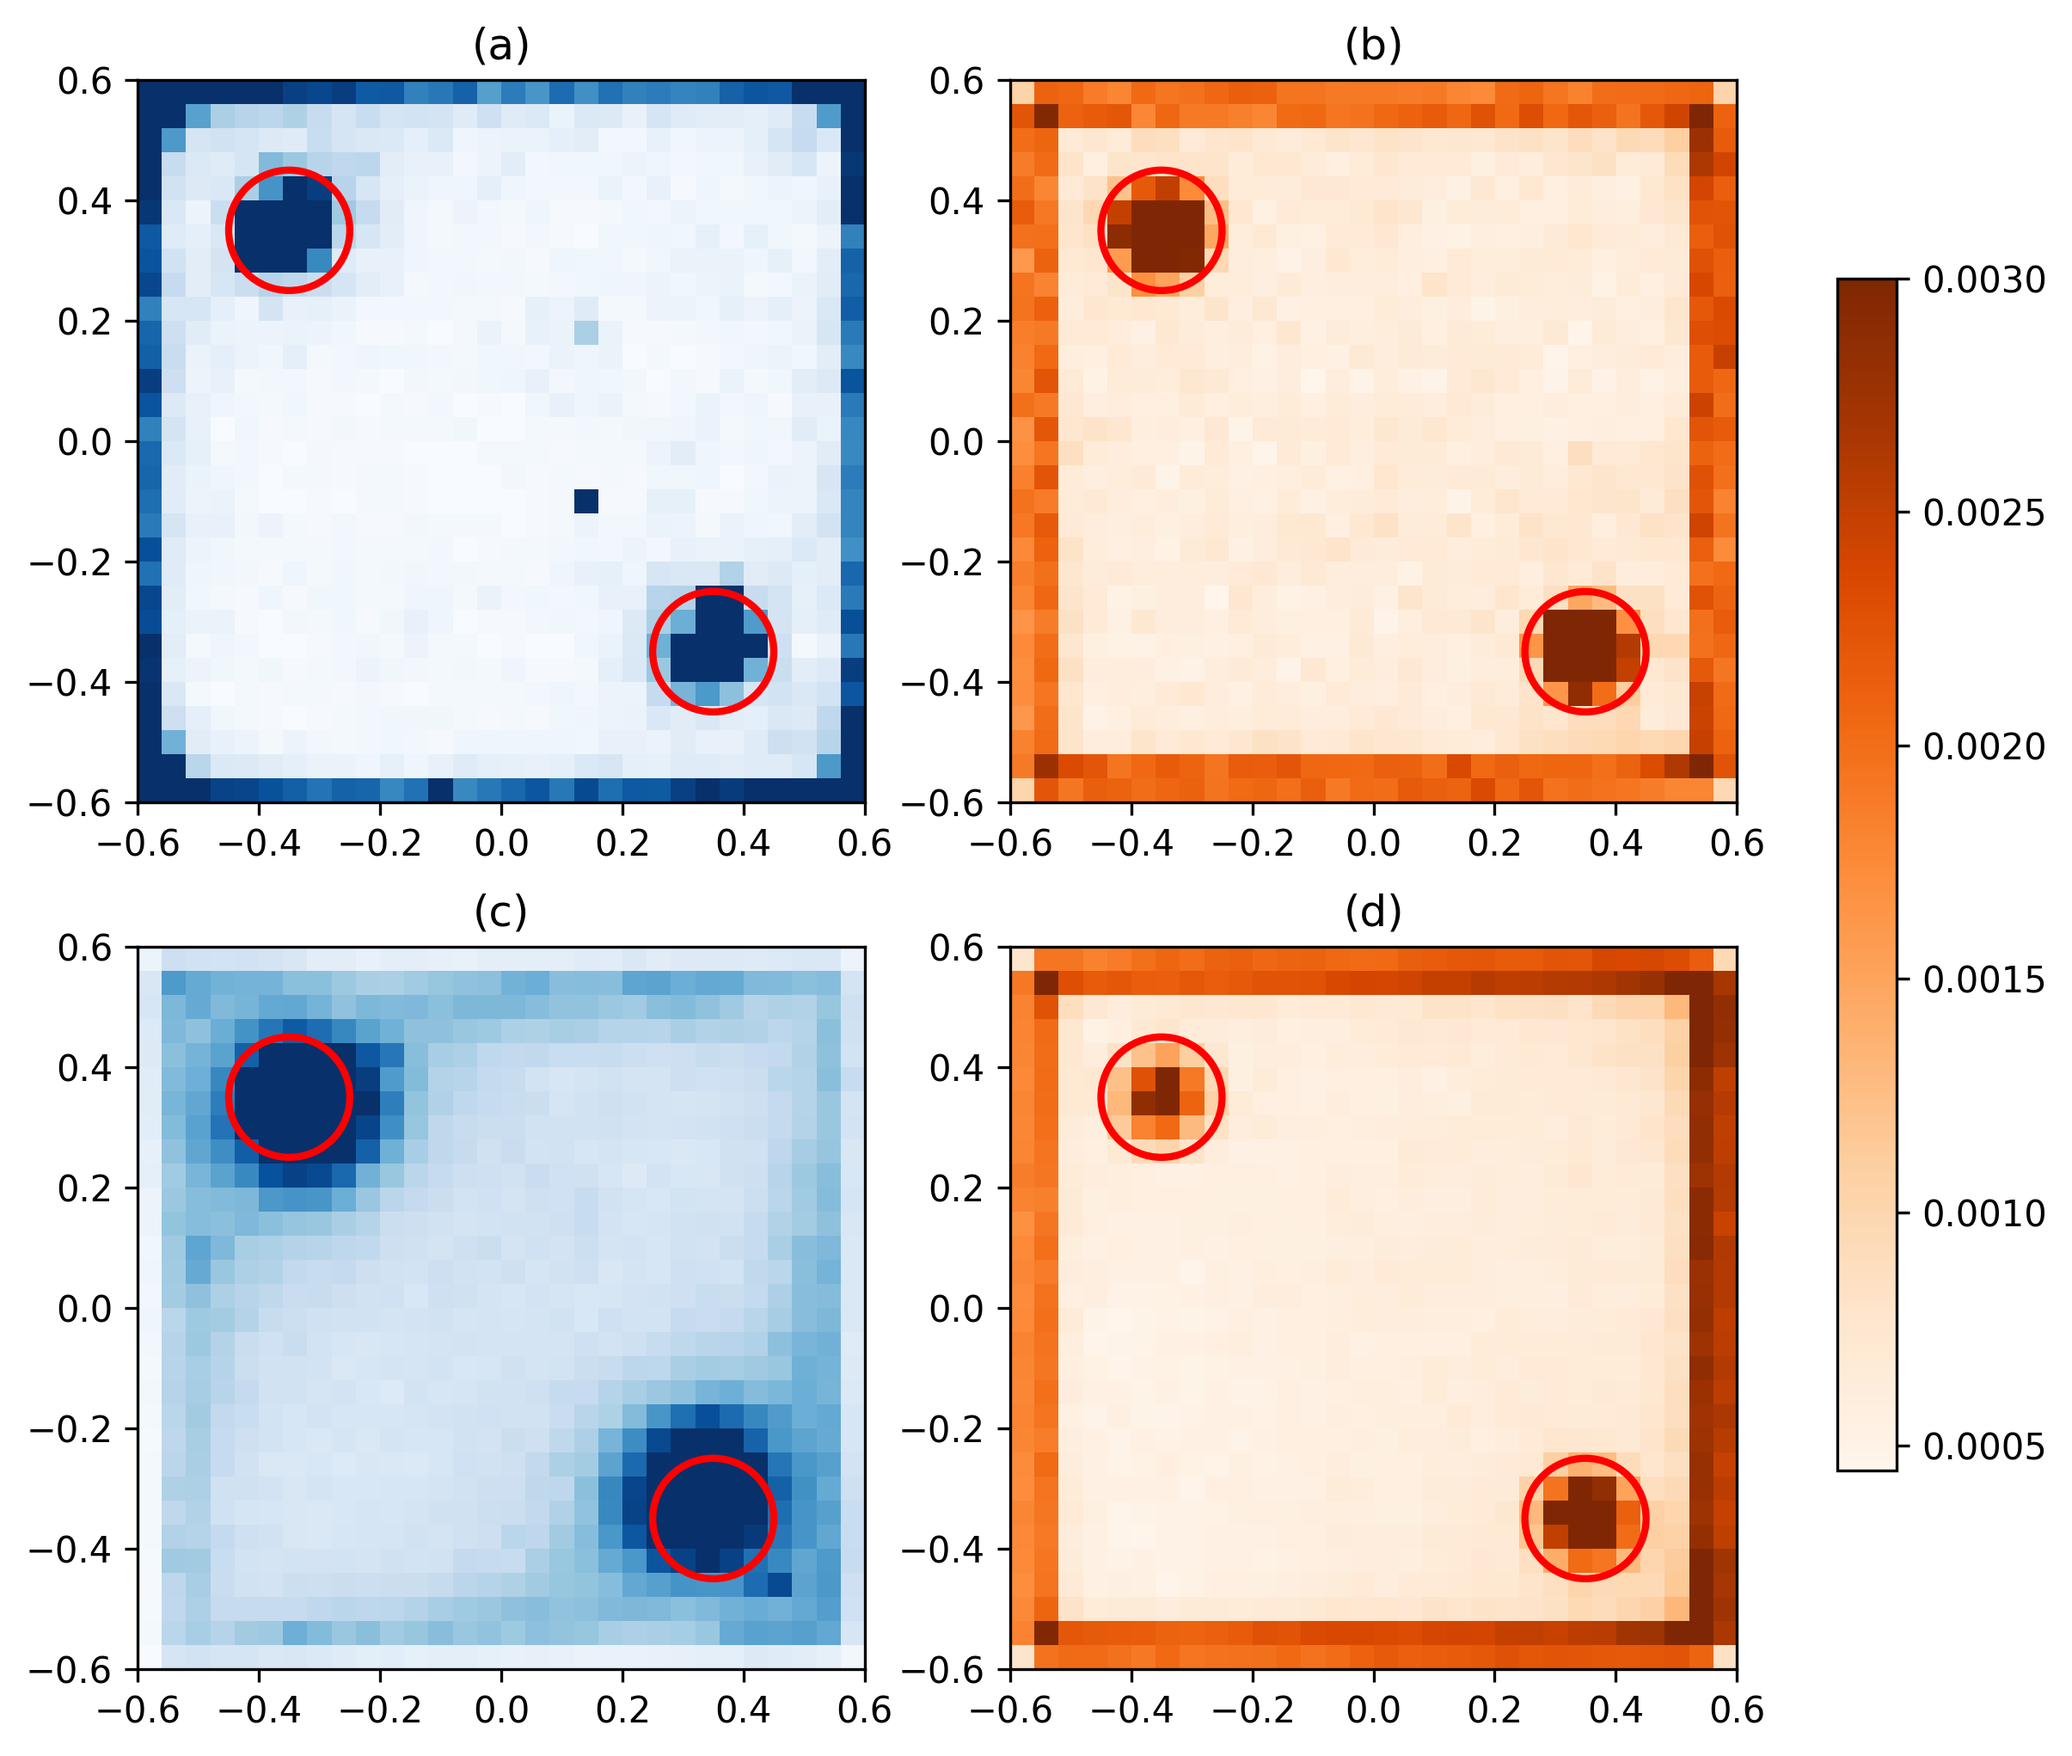
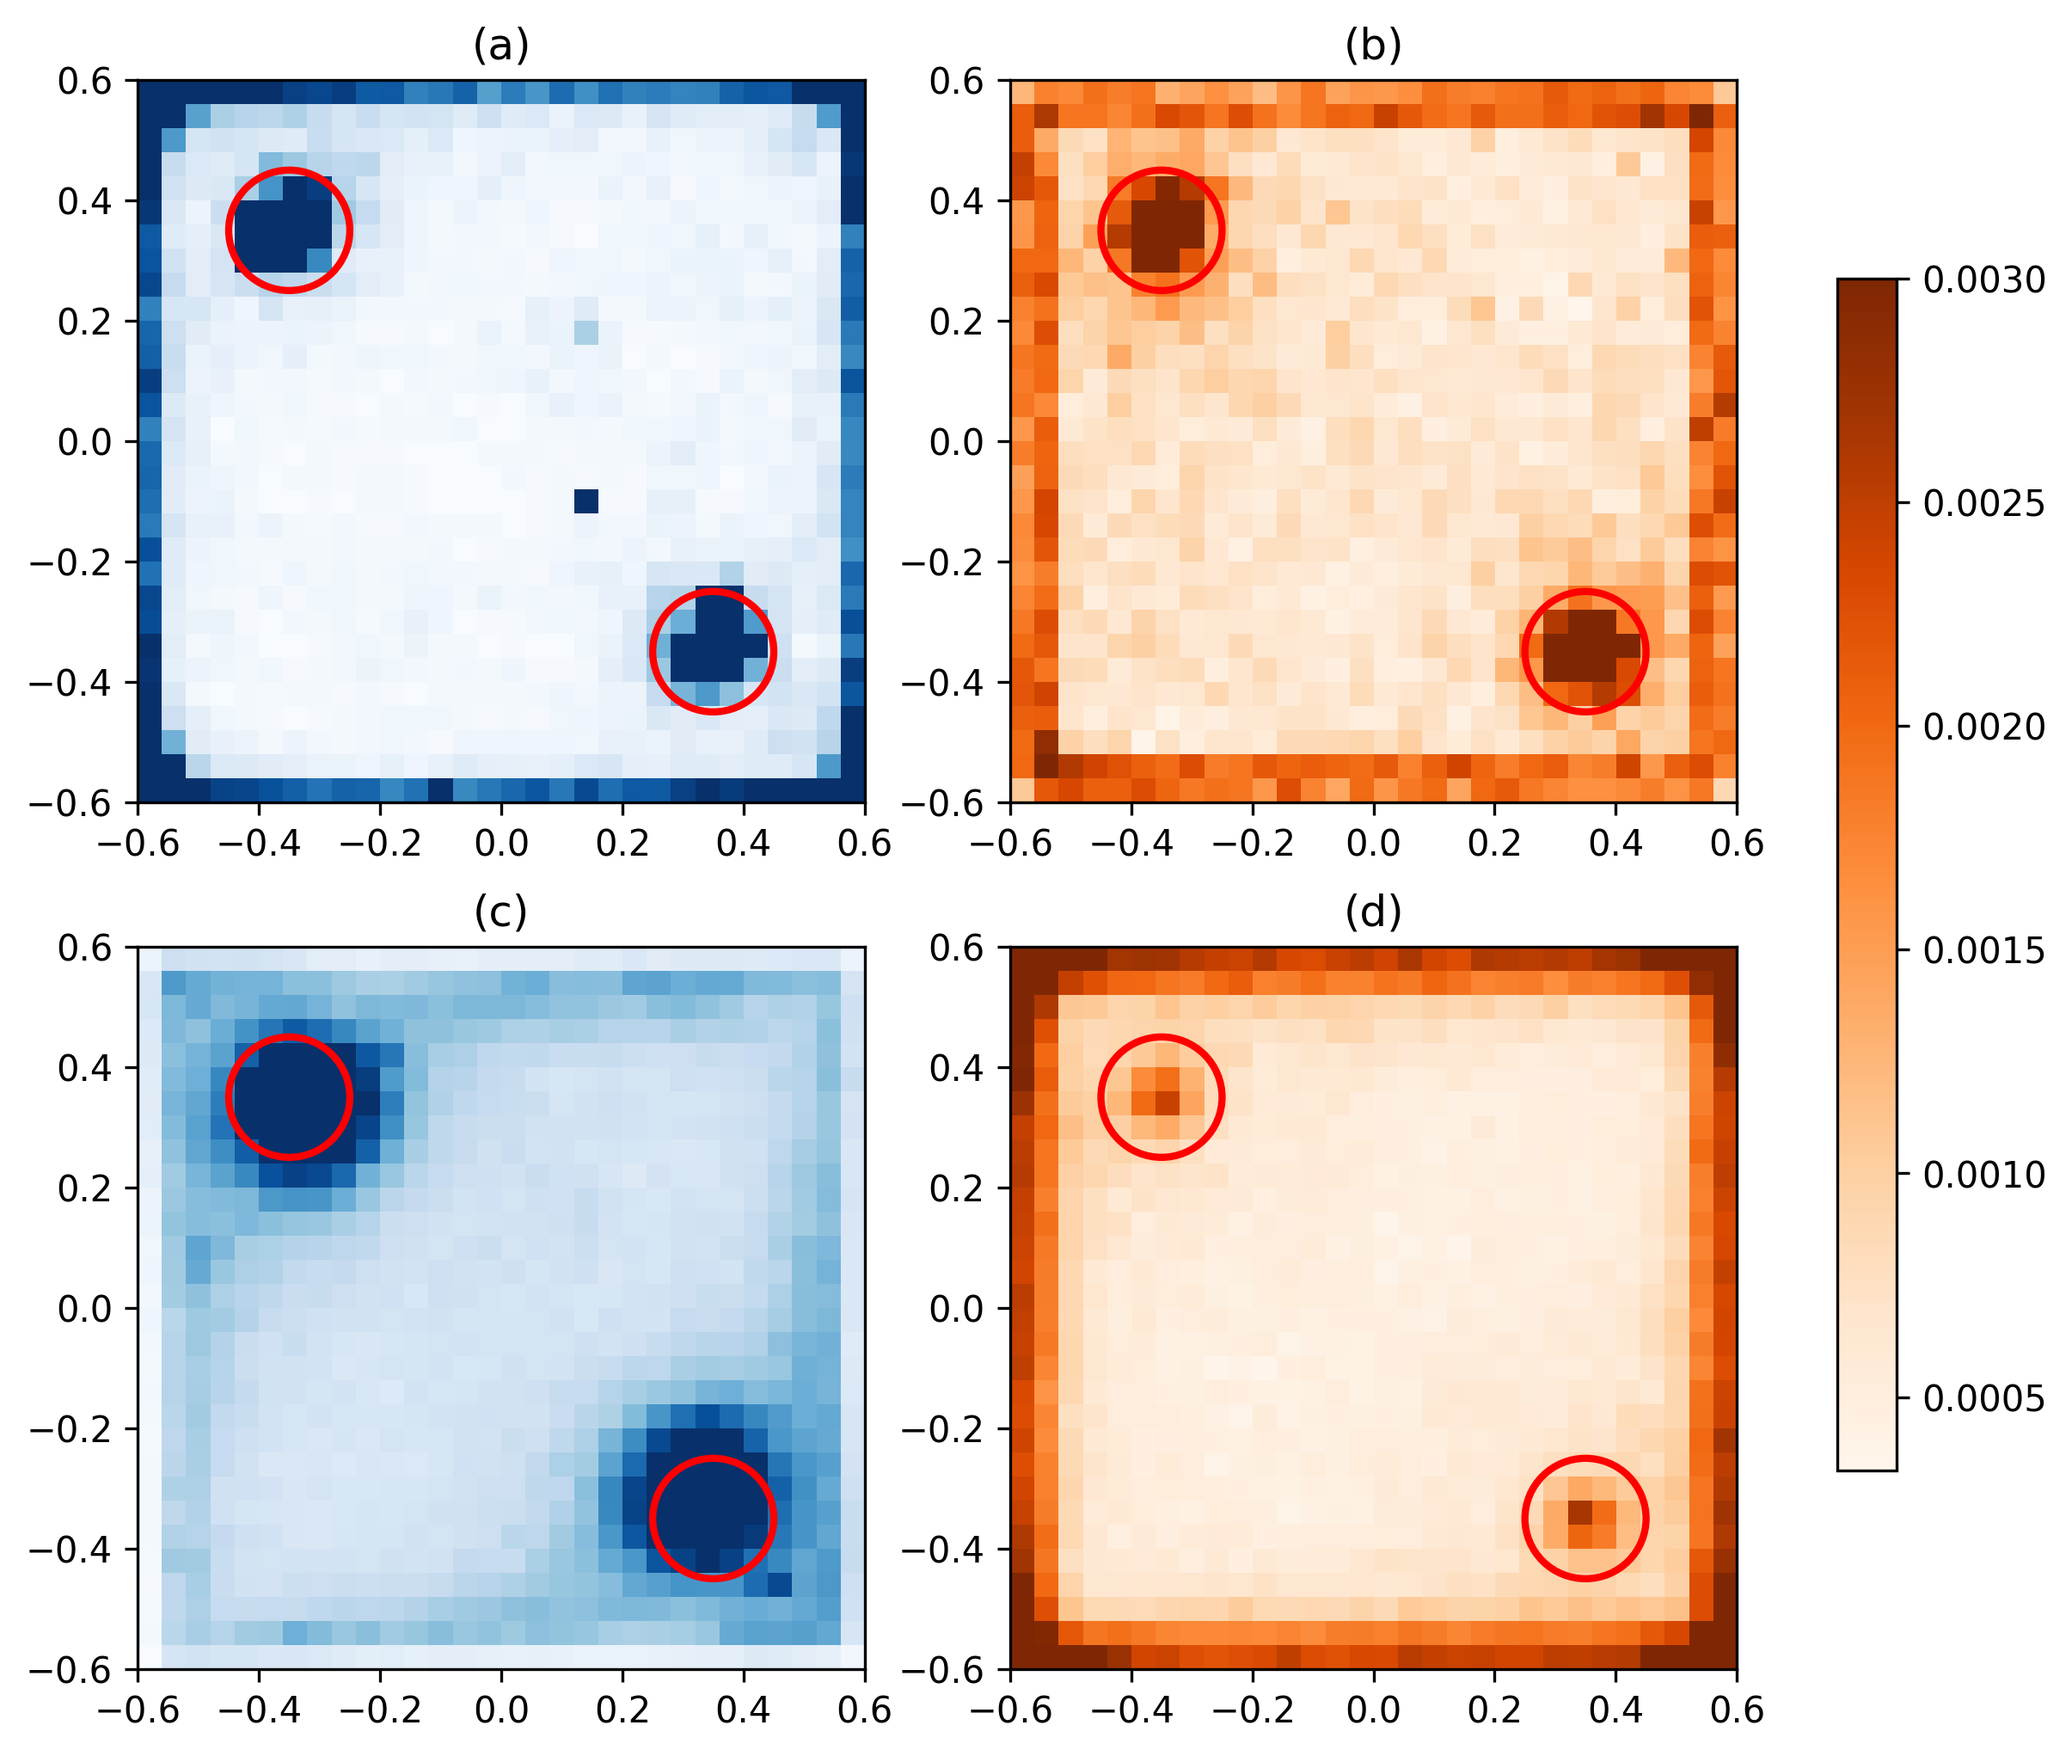
context for finding context

diff --git a/code/simulation/draw_position_probability.py b/code/simulation/draw_position_probability.py
@@ -1,7 +1,49 @@
 import pandas as pd
 import matplotlib.pyplot as plt
-from experimental_data.experimental_data import plot_presence_probability, get_positions
 import matplotlib.patches as patches
+import numpy as np
+import glob
+
+
+def get_positions(path):
+    def get_pos(path, id):
+        df = pd.read_csv(path, sep=' ', header=None, skiprows=1)
+        df.rename(columns={0: 'time'}, inplace=True)
+
+        num_objects = (df.shape[1] - 1) // 2
+
+        dfs = []
+        for i in range(num_objects):
+            x_col, y_col, obj_id = (i*2+1, i*2+2, i+1)
+            temp = df[['time', x_col, y_col]].copy()
+            temp.columns = ['time', 'x', 'y']
+            temp['fish_id'] = str(obj_id) + str(id)
+            dfs.append(temp)
+
+        long_df = pd.concat(dfs, ignore_index=True)
+        return long_df[['time', 'fish_id', 'x', 'y']]
+    
+    files = glob.glob(path)
+    dfs = [get_pos(f, fi) for fi, f in enumerate(files)]
+    return pd.concat(dfs, ignore_index=True)
+
+def plot_presence_probability(ax, df, bins=(30, 30), tank_pos=(0, 0), tank_size=(1.2, 1.2), cmap='Blues'):
+    xs = df['x'].to_numpy()
+    ys = df['y'].to_numpy()
+
+    if tank_size is None:
+        xmin, xmax = np.nanmin(xs), np.nanmax(xs)
+        ymin, ymax = np.nanmin(ys), np.nanmax(ys)
+    else:
+        width, height = tank_size
+        xmin, ymin = tank_pos
+        xmax, ymax = xmin + width, ymin + height
+        
+    H, _, _ = np.histogram2d(xs, ys, bins=bins, range=[[xmin, xmax], [ymin, ymax]])
+    H = H / len(xs)
+
+    img = ax.imshow(H.T, origin='upper', extent=(xmin, xmax, ymin, ymax), cmap=cmap, aspect='auto', vmax=0.003)
+    return img
 
 # ## 3h => i forgot that one fish_loop is 1/3th of a second, so its actually 36000/3 seconds ~ 3h, df["time"] should be divided by 3
 # # name = "Homogeneous_1AB_3h"
@@ -15,10 +57,10 @@ import matplotlib.patches as patches
 # plt.savefig(f"simulations/{name}.png", dpi=300, bbox_inches="tight")
 # plt.show()
 
-# sim_homogeneous_1AB_df = pd.read_csv(f"simulations/Homogeneous_1AB.csv")
-# sim_homogeneous_10AB_df = pd.read_csv(f"simulations/Homogeneous_10AB.csv")
-# sim_heterogeneous_1AB_df = pd.read_csv(f"simulations/Heterogeneous_1AB.csv")
-# sim_heterogeneous_10AB_df = pd.read_csv(f"simulations/Heterogeneous_10AB.csv")
+# sim_homogeneous_1AB_df = pd.read_csv(f"simulations/Homogeneous_1AB_3h.csv")
+# sim_homogeneous_10AB_df = pd.read_csv(f"simulations/Homogeneous_10AB_3h.csv")
+# sim_heterogeneous_1AB_df = pd.read_csv(f"simulations/Heterogeneous_1AB_3h.csv")
+# sim_heterogeneous_10AB_df = pd.read_csv(f"simulations/Heterogeneous_10AB_3h.csv")
 sim_homogeneous_1AB_df = pd.read_csv(f"simulations/Homogeneous_1AB_fast.csv")
 sim_homogeneous_10AB_df = pd.read_csv(f"simulations/Homogeneous_10AB_fast.csv")
 sim_heterogeneous_1AB_df = pd.read_csv(f"simulations/Heterogeneous_1AB_fast.csv")

diff --git a/code/simulation/experimental_data/experimental_data.py b/code/simulation/experimental_data/experimental_data.py
@@ -27,7 +27,7 @@ def get_positions(path):
     dfs = [get_pos(f, fi) for fi, f in enumerate(files)]
     return pd.concat(dfs, ignore_index=True)
 
-def plot_presence_probability(ax, df, bins=(30, 30), tank_pos=(0, 0), tank_size=(1.2, 1.2), cmap='Blues'):
+def plot_presence_probability(df, bins=(30, 30), tank_pos=(0, 0), tank_size=(1.2, 1.2), cmap='Blues'):
     xs = df['x'].to_numpy()
     ys = df['y'].to_numpy()
 
@@ -42,8 +42,8 @@ def plot_presence_probability(ax, df, bins=(30, 30), tank_pos=(0, 0), tank_size=
     H, _, _ = np.histogram2d(xs, ys, bins=bins, range=[[xmin, xmax], [ymin, ymax]])
     H = H / len(xs)
 
-    img = ax.imshow(H.T, origin='upper', extent=(xmin, xmax, ymin, ymax), cmap=cmap, aspect='auto', vmax=0.003)
-    return img
+    plt.imshow(H.T, origin='upper', extent=(xmin, xmax, ymin, ymax), cmap=cmap, aspect='auto', vmax=0.003)
+    return H
     
 def get_speed_pdf(df : pd.DataFrame, homogeneous=True):
     df["dx"] = df.groupby("fish_id")["x"].diff()
@@ -77,9 +77,19 @@ def get_speed_pdf(df : pd.DataFrame, homogeneous=True):
         return inside_counts, outside_counts, bins
 
 if __name__ == "__main__":
-    #df = get_positions("Zebrafish_Positions_data/Heterogeneous_10AB/*01*")
-    #plot_occupancy_map(df, bins=(30, 30), tank_size=(1.2, 1.2), cmap='Blues')
-    #exit()
+    df_real = get_positions("Zebrafish_Positions_data/Heterogeneous_10AB/*01*")
+    df_sim = pd.read_csv("../simulations/Homogeneous_1AB_fast.csv")
+    df_sim["x"] +=  0.6
+    df_sim["y"] +=  0.6
+    hist_real = plot_presence_probability(df_real, bins=(30, 30), tank_size=(1.2, 1.2), cmap='Blues')
+    hist_sim = plot_presence_probability(df_sim, bins=(30, 30), tank_size=(1.2, 1.2), cmap='Blues')
+    # figure out how diff they are
+    # diff(real, real) should be 0
+    plt.ylim(0, 1.2)
+    plt.xlim(0, 1.2)
+    plt.axis("equal")
+    plt.show()
+    exit()
 
 
     # ### ANIMATION with trail of last 3 positions ###

diff --git a/code/simulation/sim.py b/code/simulation/sim.py
@@ -73,13 +73,13 @@ def run_and_save_sim(tank, fishies, spots, duration_s, save_path=None):
         plt.show()
     else:
         positions.to_csv(f"{save_path}.csv", index=False)
-
+        return positions
 
 tank = Tank(config.TANK_WIDTH, config.TANK_HEIGHT, origin_at_center=True)
 
 np.random.seed(1)
 num_fishies = 1
-num_fishies = 10
+# num_fishies = 10
 # num_fishies = 40
 # fishies = [Fish(0.40, 0.35, 0)]
 # fishies = [Fish(0.40, 0.40, np.pi), Fish(0.30, 0.40, 0)]
@@ -97,6 +97,7 @@ spots = [
 # pprint(perceive(fishies[0], fishies, spots, tank))
 # exit()
 
+# run simulation and save locations
 # import time
 # time_start = time.time()
 # # run_and_save_sim(tank, fishies, spots, 60*60*10, "simulations/Homogeneous_1AB_fast")

diff --git a/code/simulation/config.py b/code/simulation/config.py
@@ -26,7 +26,7 @@ FOV_HALF = FOV_DEGREES / 2.0  # 135 deg
 PDF_DW = 0.05  # meters
 
 # Dispersion parameters
-PDF_K0 = 6.3  # basic-swimming dispersion
+PDF_K0 = 6.3 # basic-swimming dispersion
 PDF_KW = 20  # wall-following dispersion
 PDF_KF = 20  # percieved fish dispersion
 PDF_KS = 20  # spot of interest dispersion
@@ -35,7 +35,7 @@ PDF_KWB = 3
 
 # Weights
 PDF_ALPHA_0 = 17.5 # weight of the perceived fish during basic-swimming
-PDF_ALPHA_W = 5   # weight of the perceived fish during wall-following
+PDF_ALPHA_W = 5    # weight of the perceived fish during wall-following
 PDF_BETA_0 = 0.15  # weight of the perceived spots during basic-swimming
 PDF_BETA_W = 0.01  # weight of the perceived spots during wall-following
 
